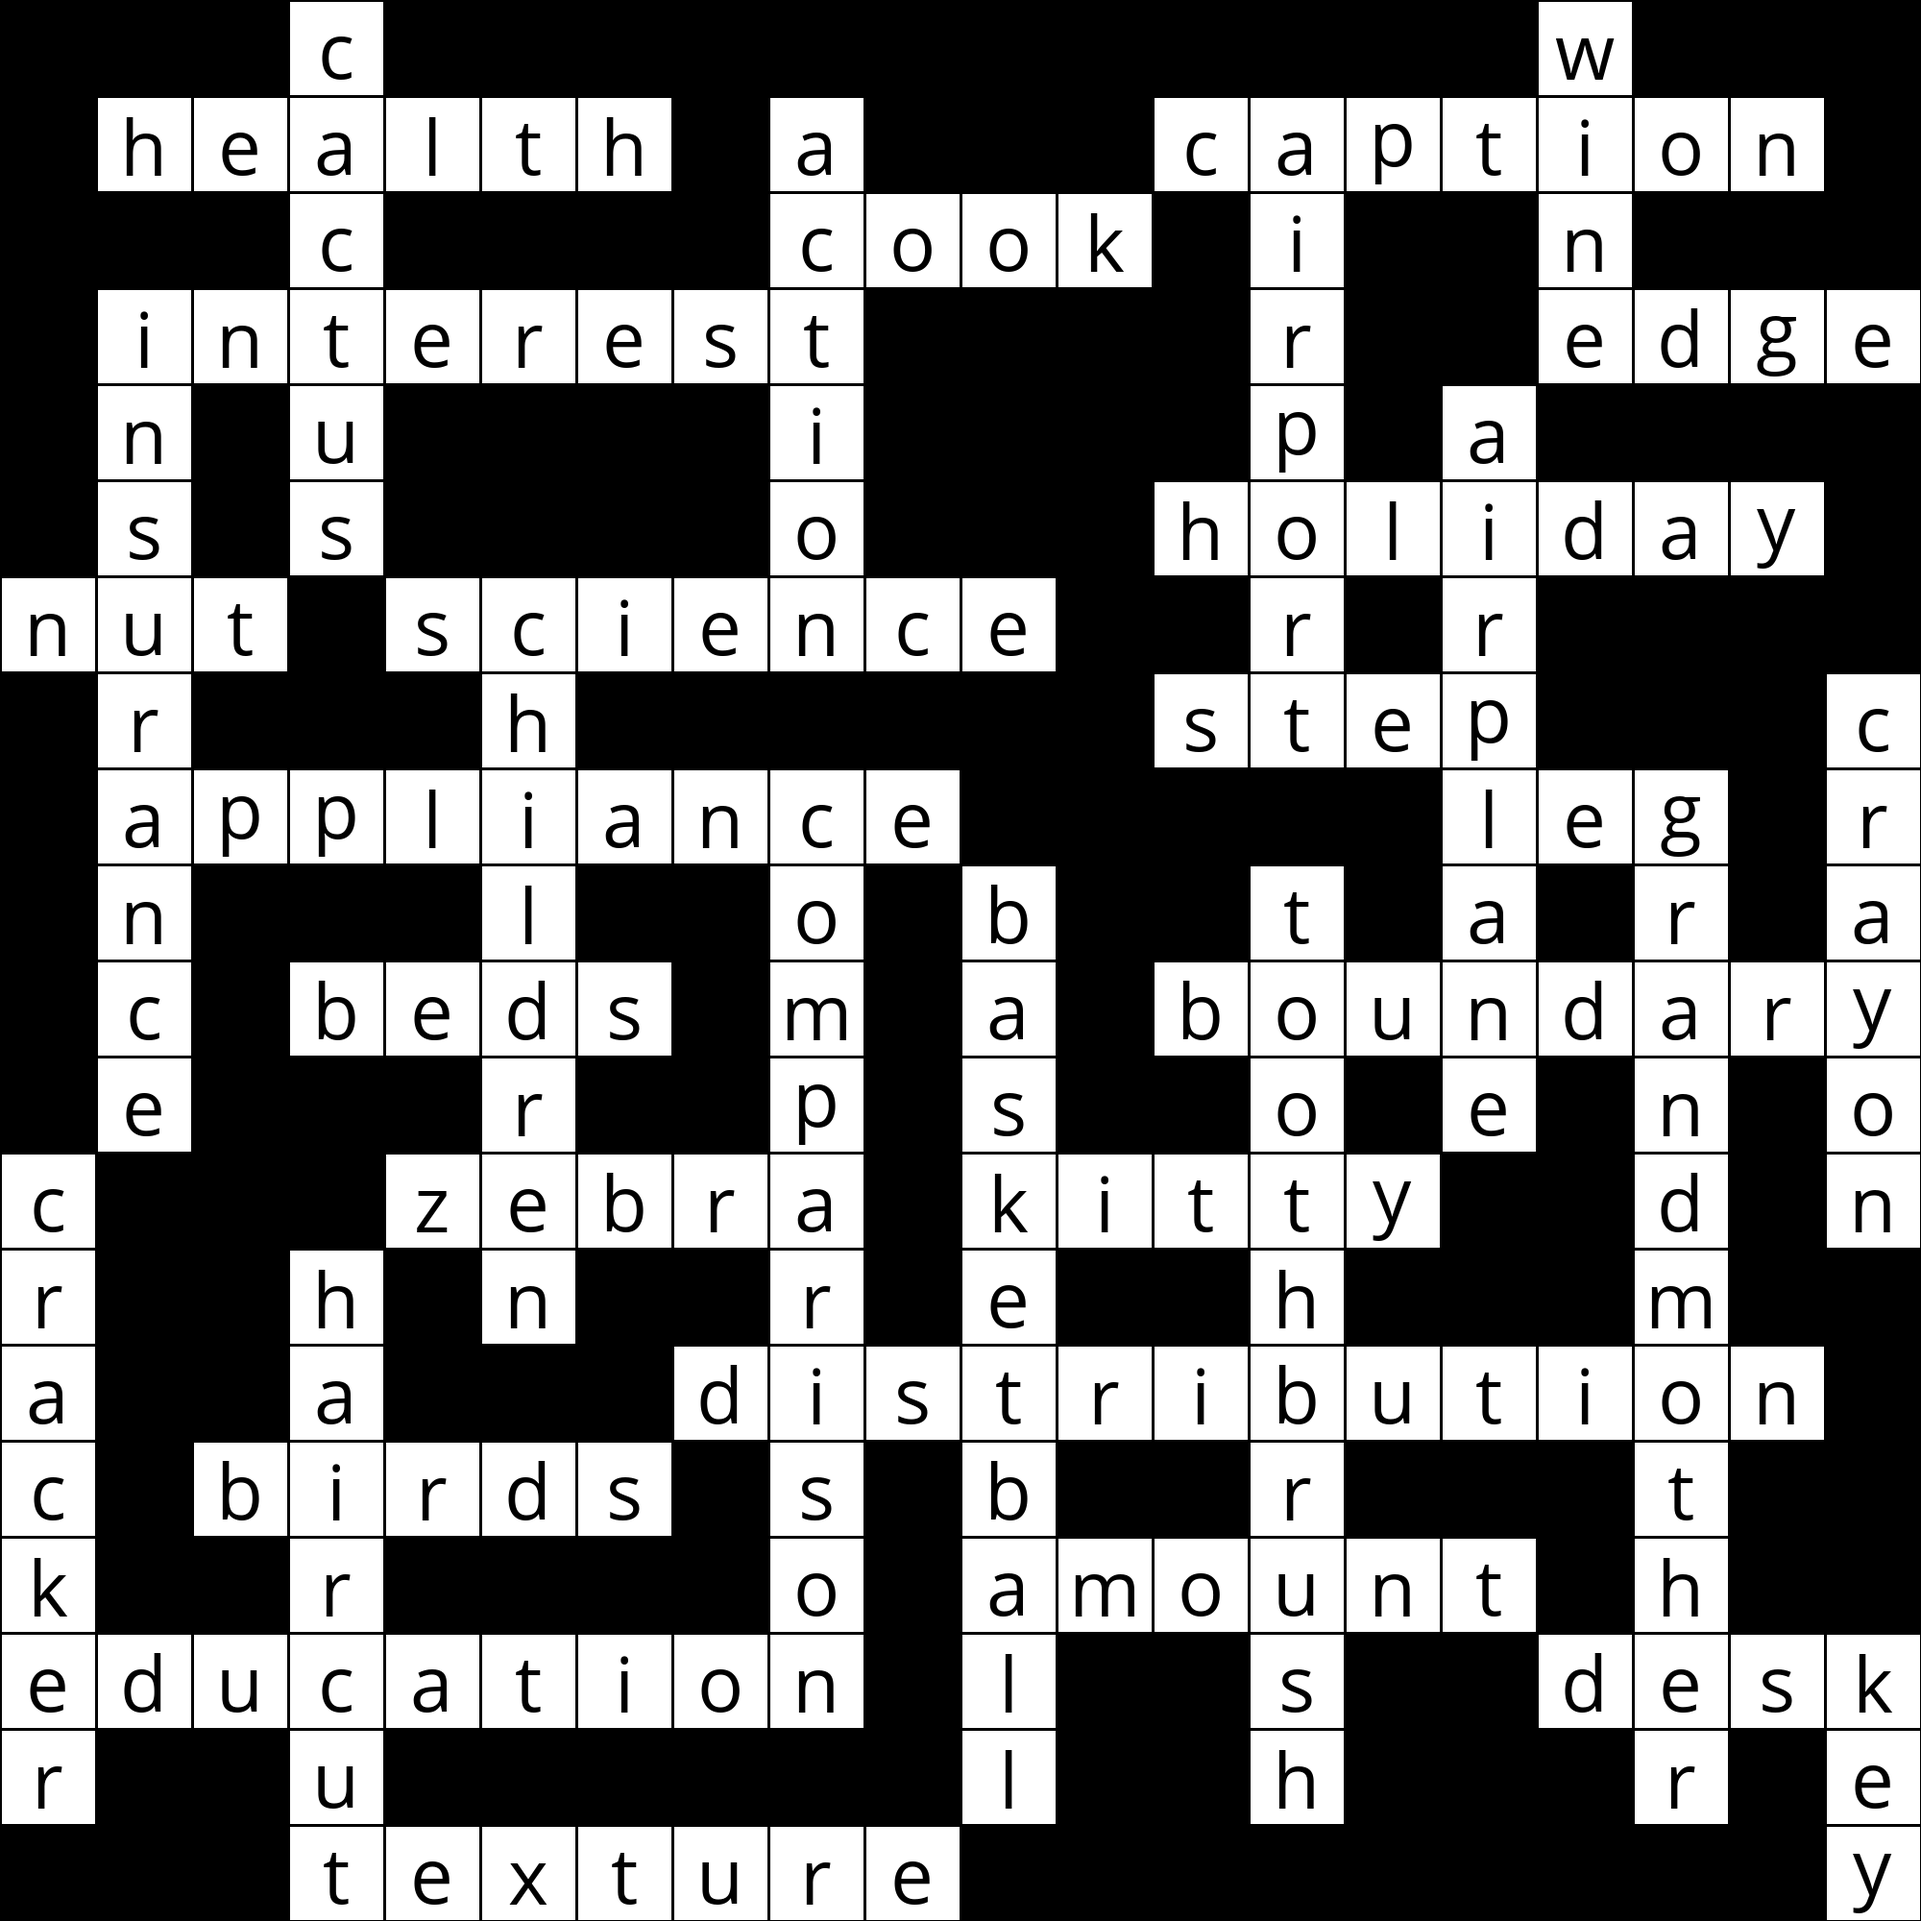
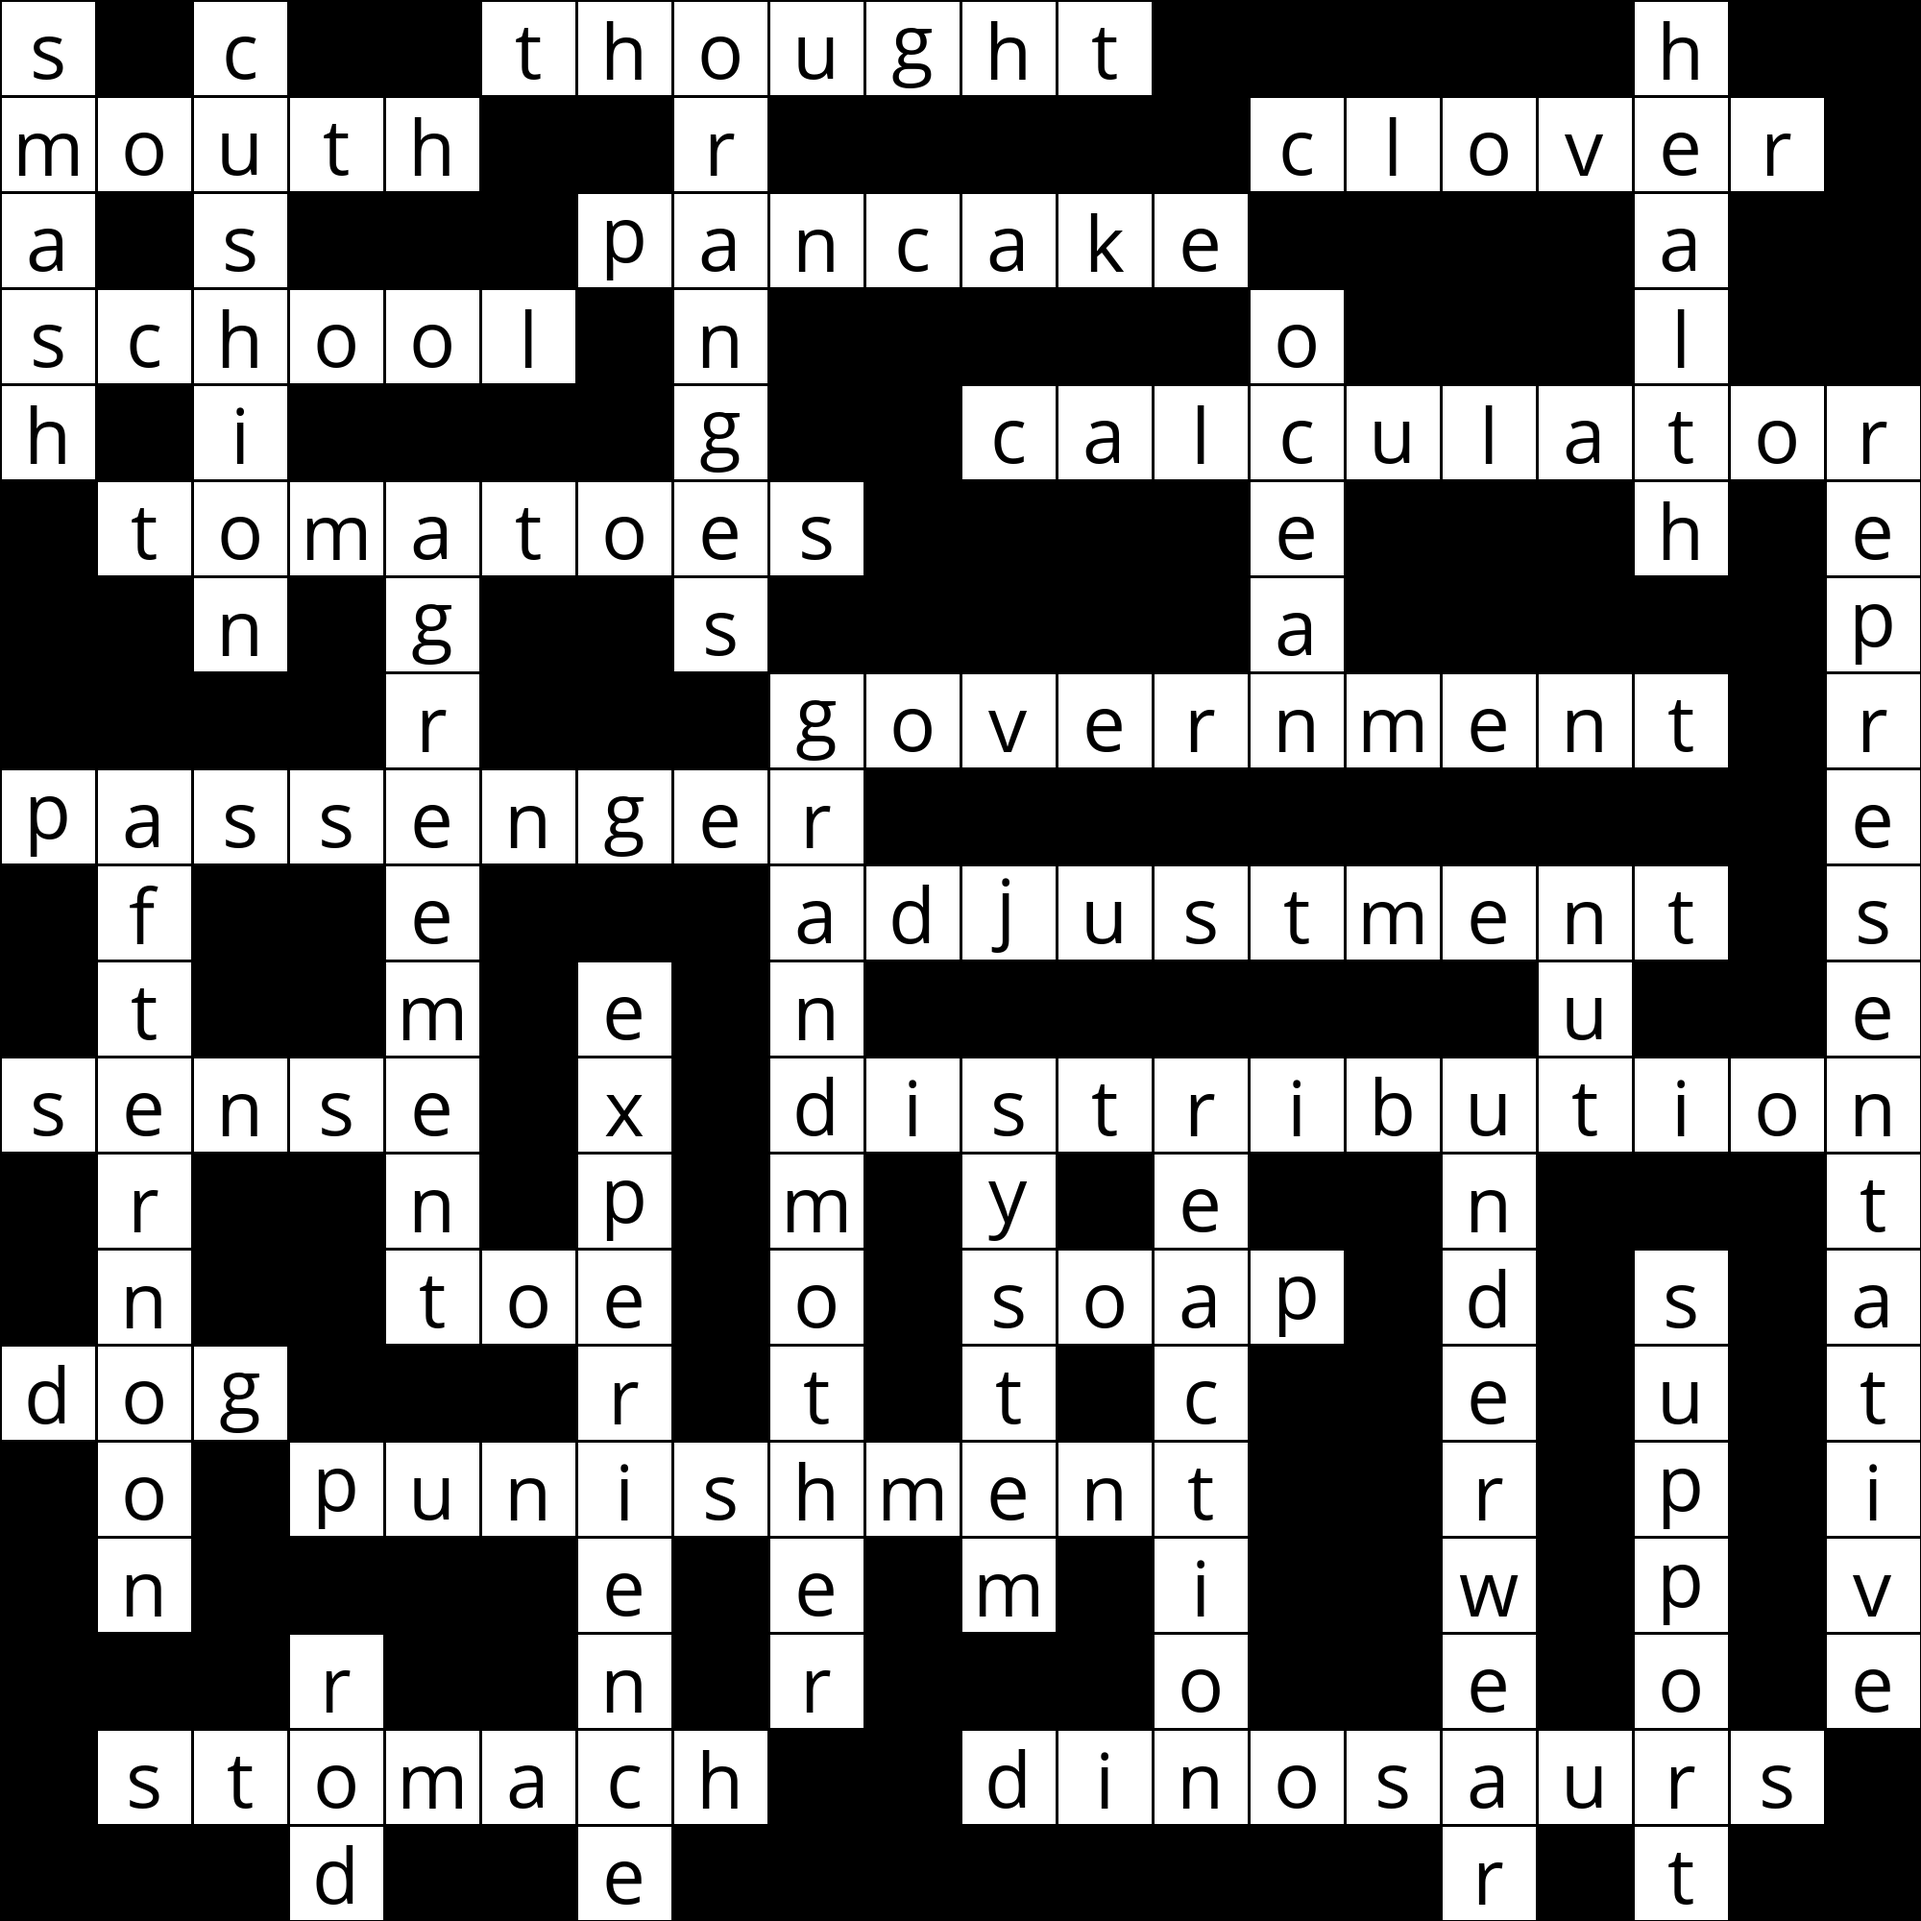
Final improvements

diff --git a/generator.py b/generator.py
@@ -1,5 +1,4 @@
 import os
-from time import sleep
 import random
 from PIL import Image, ImageDraw, ImageFont
 
@@ -17,31 +16,87 @@ class Crossword:
                 row.append("#")
             self.board.append(row)
 
-        self.dictionary = []
         path = "." + os.sep + "data" + os.sep + "words.txt"
         with open(path) as file:
             lines = file.readlines()
             for line in lines:
                 word = line.replace("\n", "")
-                self.dictionary.append(word)
+                if len(word) <= self.size:
+                    self.words_available.append(word)
 
-        while len(self.words_available) < size*10:
-            random_word = random.choice(self.dictionary)
-            if random_word not in self.words_available and len(random_word) <= self.size:
-                self.words_available.append(random_word)
         self.words_available = sorted(self.words_available, key=len)
 
     def print_board(self):
+        """
+        Print board to console for debug purposes
+        """
         for row in self.board:
             text = "".join(row)
             print(text)
 
     def is_in_range(self, x, y):
+        """
+        Check if coordinates are in the board
+        """
         if x >= self.size or x < 0 or y >= self.size or y < 0:
             return False
         return True
 
-    def is_valid_position(self, x, y, direction, word, placed_word=None):
+    def is_valid_position(self, x, y, direction, word):
+        """
+        Returns whether a word, identified by its position and direction, can fit correctly into the board
+        :param x: row number
+        :param y: col number
+        :param direction: horizontal or vertical
+        :param word: the word we want to insert
+        :return: True if word can correctly be inserted, False otherwise
+        """
+        for i in range(len(word)):
+            if direction == "vertical":
+                # Check if word could be inserted in this position
+                if not self.is_in_range(x+i, y) or (self.board[x+i][y] != "#" and self.board[x+i][y] != word[i]):
+                    return False
+                # Check for correctness of position in terms of interfering with neighbors
+                if self.board[x+i][y] == "#":
+                    # Check top of word
+                    if i == 0 and self.is_in_range(x-1, y):
+                        if self.board[x-1][y] != "#":
+                            return False
+                    # Check bottom of word
+                    if i == len(word) - 1 and self.is_in_range(x + i + 1, y):
+                        if self.board[x+i+1][y] != "#":
+                            return False
+                    # Check sides of each letter
+                    if self.is_in_range(x+i, y + 1):
+                        if self.board[x+i][y + 1] != "#":
+                            return False
+                    if self.is_in_range(x+i, y - 1):
+                        if self.board[x+i][y - 1] != "#":
+                            return False
+
+            if direction == "horizontal":
+                # Check if word could be inserted in this position
+                if not self.is_in_range(x, y+i) or (self.board[x][y+i] != "#" and self.board[x][y+i] != word[i]):
+                    return False
+                # Check for correctness of position in terms of interfering with neighbors
+                if self.board[x][y+i] == "#":
+                    # Check left of word
+                    if i == 0 and self.is_in_range(x, y-1):
+                        if self.board[x][y-1] != "#":
+                            return False
+                    # Check right of word
+                    if i == len(word) - 1 and self.is_in_range(x, y + i + 1):
+                        if self.board[x][y+i+1] != "#":
+                            return False
+                    # Check top/bottom of each letter
+                    if self.is_in_range(x + 1, y+i):
+                        if self.board[x + 1][y+i] != "#":
+                            return False
+                    if self.is_in_range(x - 1, y+i):
+                        if self.board[x - 1][y+i] != "#":
+                            return False
+
+        # Check if word overlaps with another word in the same direction
         if direction == "horizontal":
             if self.is_in_range(x, y-1):
                 if self.board[x][y-1] != "#":
@@ -56,42 +111,8 @@ class Crossword:
             if self.is_in_range(x+len(word), y):
                 if self.board[x+len(word)][y] != "#":
                     return False
-        for i in range(len(word)):
-            if direction == "vertical":
-                if not self.is_in_range(x+i, y) or (self.board[x+i][y] != "#" and self.board[x+i][y] != word[i]):
-                    return False
-                if self.board[x+i][y] == "#":
-                    if i == 0 and self.is_in_range(x-1, y):
-                        if self.board[x-1][y] != "#":
-                            return False
-                    if i == len(word) - 1 and self.is_in_range(x + i + 1, y):
-                        if self.board[x+i+1][y] != "#":
-                            return False
-                    if self.is_in_range(x+i, y + 1):
-                        if self.board[x+i][y + 1] != "#":
-                            return False
-                    if self.is_in_range(x+i, y - 1):
-                        if self.board[x+i][y - 1] != "#":
-                            return False
 
-            if direction == "horizontal":
-                if not self.is_in_range(x, y+i) or (self.board[x][y+i] != "#" and self.board[x][y+i] != word[i]):
-                    return False
-                if self.board[x][y+i] == "#":
-                    if i == 0 and self.is_in_range(x, y-1):
-                        if self.board[x][y-1] != "#":
-                            return False
-                    if i == len(word) - 1 and self.is_in_range(x, y + i + 1):
-                        if self.board[x][y+i+1] != "#":
-                            return False
-                    if self.is_in_range(x + 1, y+i):
-                        if self.board[x + 1][y+i] != "#":
-                            return False
-                    if self.is_in_range(x - 1, y+i):
-                        if self.board[x - 1][y+i] != "#":
-                            return False
-
-        print(f"Valid position ({x}, {y}) for '{word}' in direction {direction} with placed word '{placed_word}'")
+        print(f"Valid position ({x}, {y}) for '{word}' in direction {direction}")
         return True
 
     def place_word_on_board(self, x, y, direction, word):
@@ -104,7 +125,7 @@ class Crossword:
         self.words_available.remove(word)
 
     def solve(self):
-        print(self.words_available)
+        # Place randomly the first word on the board
         word = self.words_available[-1]
         while True:
             x = random.randint(0, self.size-1)
@@ -113,27 +134,34 @@ class Crossword:
             if self.is_valid_position(x, y, direction, word):
                 self.place_word_on_board(x, y, direction, word)
                 break
-        for _ in range(5):
+
+        # Try and fit words onto the board so that they match the ones already inserted
+        for _ in range(3):
             for word in self.words_available[::-1]:
                 done = False
                 for letter in word:
                     if done:
                         break
                     for placed_word in self.occupied:
-                        if letter in placed_word["word"]:
+                        if letter in placed_word["word"]: # True if there is an intersection between the two words
                             direction = "vertical" if placed_word["direction"] == "horizontal" else "horizontal"
+                            # Calculate position of new word
                             if direction == "vertical":
                                 x = placed_word["x"] - word.index(letter)
                                 y = placed_word["y"] + placed_word["word"].index(letter)
                             else:
                                 x = placed_word["x"] + placed_word["word"].index(letter)
                                 y = placed_word["y"] - word.index(letter)
-                            if self.is_valid_position(x, y, direction, word, placed_word):
+                            # Check if can be correctly inserted
+                            if self.is_valid_position(x, y, direction, word):
                                 self.place_word_on_board(x, y, direction, word)
                                 done = True
                                 break
 
     def get_board_score(self):
+        """
+        Returns a measure of how good a board is based on occupied places
+        """
         occupied_spots = 0
         for i in range(self.size):
             for j in range(self.size):
@@ -141,7 +169,12 @@ class Crossword:
                     occupied_spots += 1
         return occupied_spots/(self.size**2)
 
-    def save(self, filename):
+    def save(self, filename, hide_words=False):
+        """
+        Saves the crossword to an image file
+        :param filename: name of file that the image will be saved to
+        :param hide_words: if True, only a number identifier will be displayed, if False the whole word is displayed
+        """
         cell_size = 100
         cell_border = 2
         interior_size = cell_size - 2 * cell_border
@@ -154,8 +187,10 @@ class Crossword:
             "black"
         )
         font = ImageFont.truetype("assets/fonts/OpenSans-Regular.ttf", 80)
+        font_smaller = ImageFont.truetype("assets/fonts/OpenSans-Regular.ttf", 35)
         draw = ImageDraw.Draw(img)
 
+        count = 1
         for i in range(self.size):
             for j in range(self.size):
                 rect = [
@@ -166,12 +201,30 @@ class Crossword:
                 ]
                 if self.board[i][j] != "#":
                     draw.rectangle(rect, fill="white")
-                    w, h = draw.textsize(self.board[i][j], font=font)
-                    draw.text(
-                        (rect[0][0] + ((interior_size - w) / 2),
-                         rect[0][1] + ((interior_size - h) / 2) - 10),
-                        self.board[i][j], fill="black", font=font
-                    )
+                    if hide_words:
+                        for word in self.occupied:
+                            if i == word["x"] and j == word["y"]:
+                                w, h = draw.textsize(str(count), font=font_smaller)
+                                if word["direction"] == "vertical":
+                                    draw.text(
+                                        (rect[0][0] + ((interior_size - w) / 2) - cell_size/5,
+                                         rect[0][1] + ((interior_size - h) / 2) - 10 + cell_size/4),
+                                        str(count), fill="black", font=font_smaller
+                                    )
+                                else:
+                                    draw.text(
+                                        (rect[0][0] + ((interior_size - w) / 2 + cell_size/5),
+                                         rect[0][1] + ((interior_size - h) / 2) - 10 + cell_size/8),
+                                        str(count), fill="black", font=font_smaller
+                                    )
+                                count += 1
+                    else:
+                        w, h = draw.textsize(self.board[i][j], font=font)
+                        draw.text(
+                            (rect[0][0] + ((interior_size - w) / 2),
+                             rect[0][1] + ((interior_size - h) / 2) - 10),
+                            self.board[i][j], fill="black", font=font
+                        )
 
         img.save(filename)
 
@@ -180,10 +233,9 @@ def main():
     size = 20
     crossword = Crossword(size)
     crossword.solve()
-    print("-----------------------------------")
-    crossword.print_board()
     print(f"Words fitted: {len(crossword.occupied)} for a score of {crossword.get_board_score()}")
     crossword.save("output.png")
+    crossword.save("output-hidden.png", True)
 
 
 if __name__ == "__main__":
